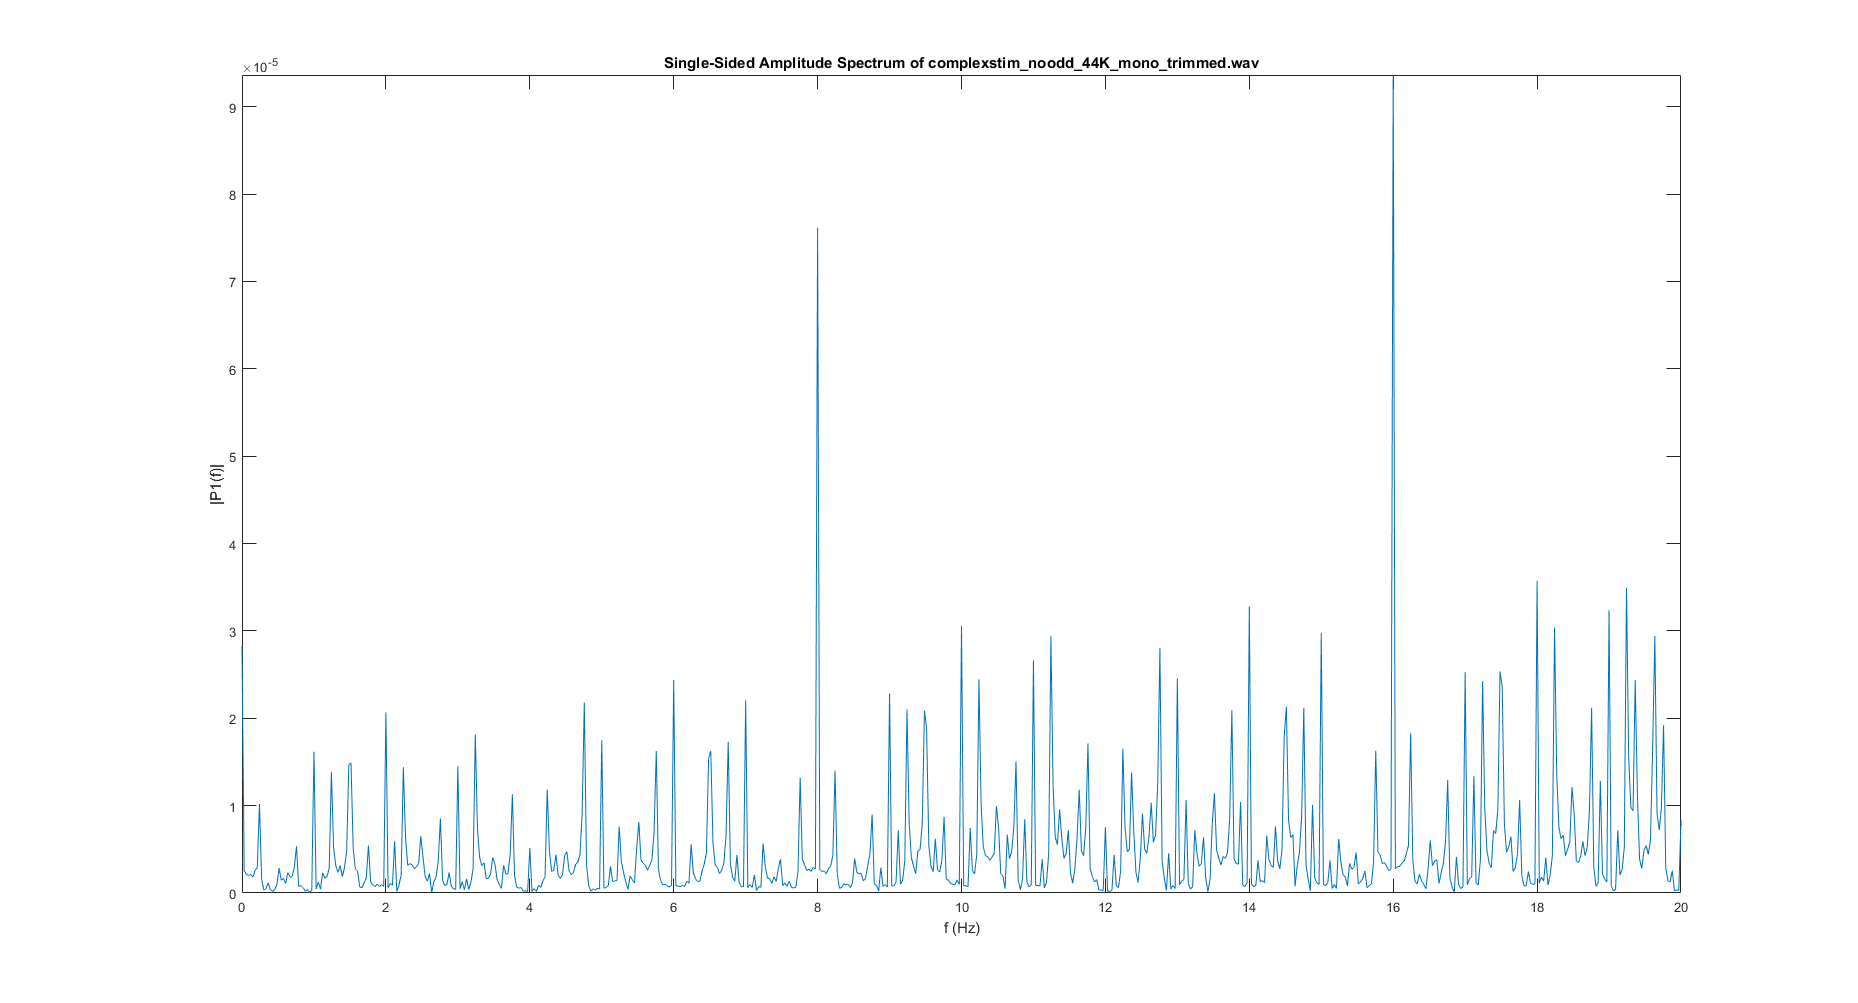
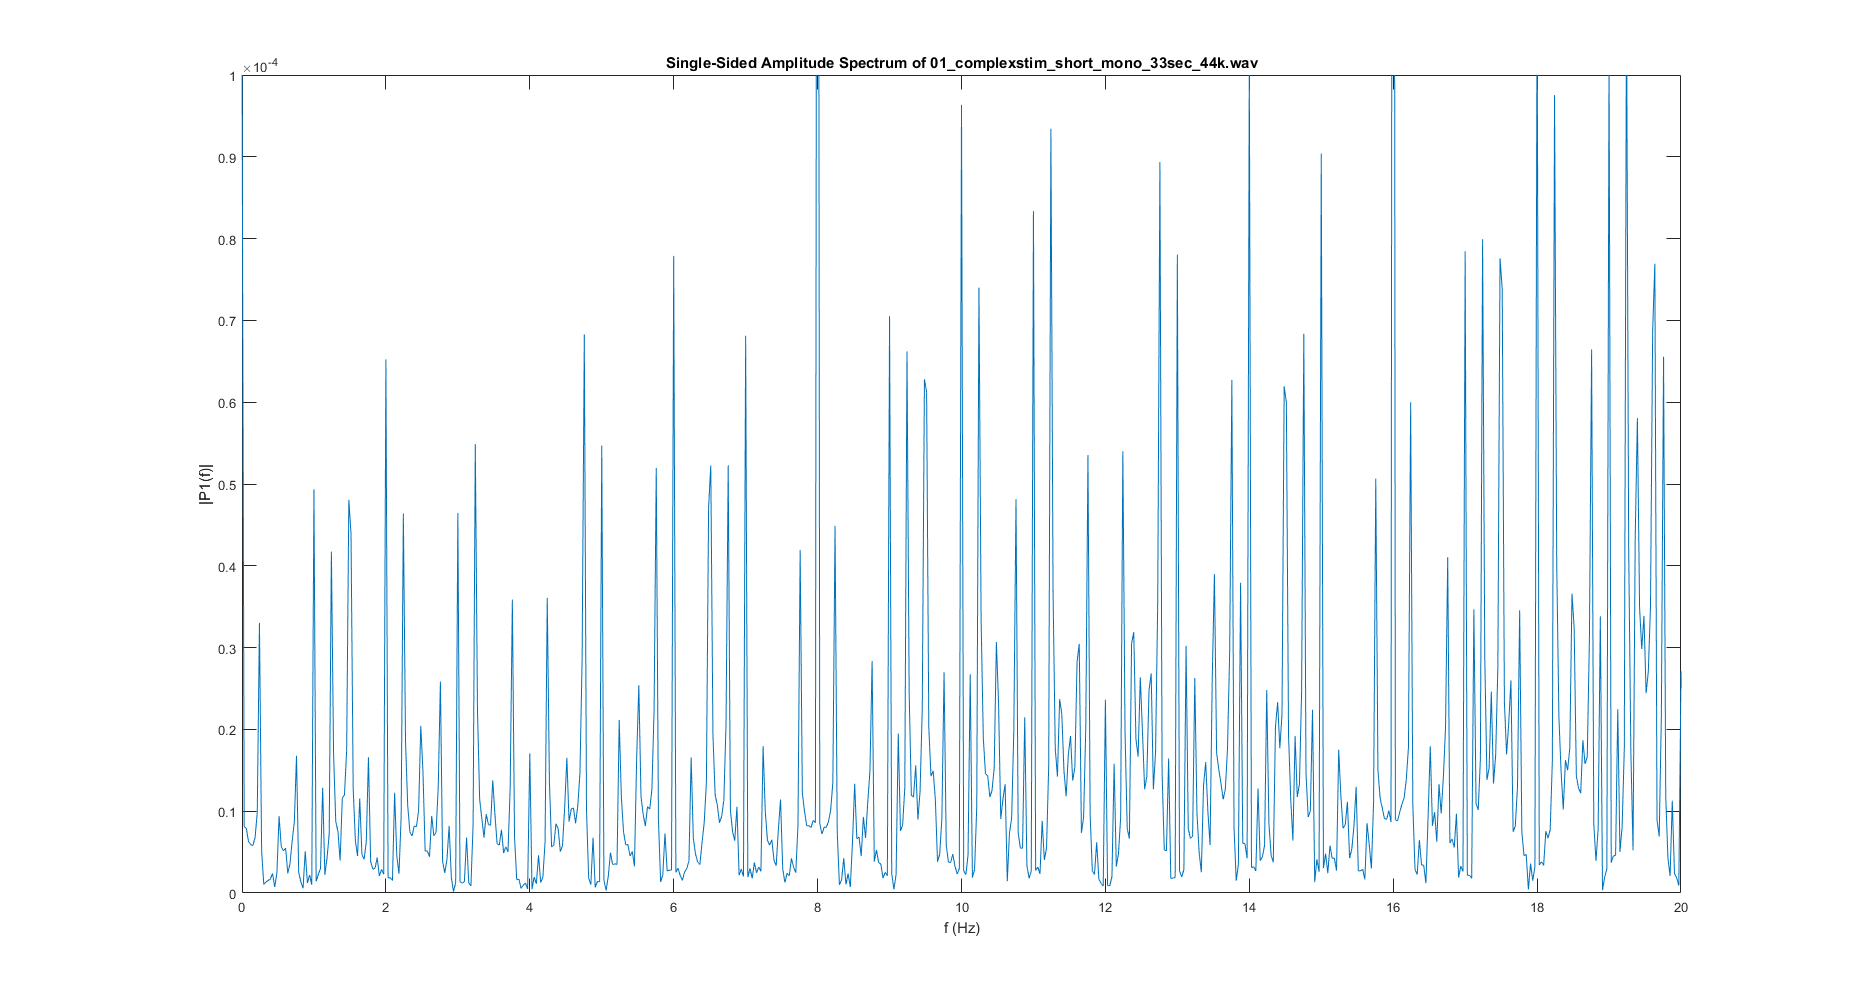
Redid counterbalancing, added better graphics

Changed region(s): [[0.1249, 0.1854, 0.9053, 0.8963], [0.3434, 0.0618, 0.6868, 0.0927], [0.0936, 0.4636, 0.1249, 0.4945]]

diff --git a/scripts/priming_reg_irreg_16blocks_old.m b/scripts/priming_reg_irreg_16blocks_old.m
@@ -53,8 +53,6 @@ p.blocks = 16; % Number of blocks.
 % NOTE: If p.blocks changes from an even number, double-check generate_keys
 % as it will break. I added a test to ensure that p.blocks is an even 
 % number before executing the function. 
-% And now, if this changes from 16 this completely breaks counterbalancing
-% babble across primes!
 
 p.repPrimesPerExp = 2; % Repeated primes over the experiment.
 % NOTE: IF p.repPrimesPerExp changes from 2, double-check 
@@ -119,7 +117,7 @@ end
 
 % key_primes and key_sentences - order of primes and sentences
 [key_primes, key_sent, key_pract] = generate_keys(subj, p);
-sentencecheck(key_sent, key_primes, p)
+sentencecheck(key_sent, p)
 % For the sake of readability I moved all of this code into functions
 % which are specified at the end of this document. 
 % NOTE: Instructions has one practice block which draws from 4 sentences.
@@ -262,7 +260,7 @@ pahandle = PsychPortAudio('Open', [], [], [], fs);
 % online, so I recommend reading RTBox.m and RTBoxdemo.m 
 RTBox('fake', 1);
 RTBox('UntilTimeout', 1);
-RTBox('ButtonNames', {'left', 'right', 'space', '4'});
+RTBox('ButtonNames', {'left', 'right', '3', '4'});
 
 % I convert the speaker image matrix into a texture at this point so the
 % experiment runs faster. 
@@ -681,51 +679,38 @@ key_structures = Shuffle(1:8:p.numStim);
 
 % COUNTERBALANCE NOISE CONDITIONS
 % This ensures an equal number of babble OR/SR conditions across all of the
-% blocks, and also guarantees a counterbalance of babble/clear across each
-% prime across the entire experiment. Note that there are six combinations 
-% of noise/clear sentences, but only 16 blocks. I chose to not use the 
-% condition where all O-sentences are noise and a block or all S-sentneces 
-% are noise. The reason I use 5, 6, 9, and 10 is because I later convert 
-% these into binary vectors!
-
-% The following FOR loop counterbalances stimuli across the "superordinate"
-% categories of primes (i.e. reg/irreg/ambiance/silence). % This strange 
-% Shuffle syntax ensures that the counterbalance matrices are shuffled 
-% across column and across row independently, thus preserving
-% counterbalance. 
-cb_noise = cell(1, 4); 
-for ii = 1:4 
-    cb_noise{ii} = Shuffle(Shuffle([5, 6; 10, 9], 1), 2);
-    % 5  -- OM and SM babble [0 1 0 1]
-    % 6  -- OM and SF babble [0 1 1 0]
-    % 9  -- OF and SM babble [1 0 0 1]
-    % 10 -- OF and SF babble [1 0 1 0]
-end
-
-idx_vec = [1 3 1 3 1 3 1 3];
-% The first two items in each cb_noise matrix are used to determine the
-% "short" prime's noise conditions, and the third and fourth are used in
-% the "long" prime's noise conditions. The bizzare Shuffle syntax earlier
-% ensures that the short and long primes are counterbalanced, and this
-% helps select items 1 and 2, or 3 and 4 from each matrix. 
-
-idx = 1;
+% blocks, and also guarantees a counterbalance of each sentence type across
+% every two blocks. Note that there are six combinations of noise/clear 
+% sentences, but only 16 blocks. Therefore two blocks need to be dropped, 
+% and I chose to drop a block where all O-sentences are noise and a block 
+% where all S-sentneces are noise. The reason I use such strange digits is 
+% because I later convert these into binary vectors!
+pairs = [5, 10; 6, 9];
+key_babble_half = Shuffle([5 5 6 6 9 9 10 10]);
 key_babble_full = nan(1, p.blocks);
-
-for ii = key_primes % for each prime...
-    this_prime = ceil(ii/2); 
-    % Above: is the prime complex (1), ambiance (2), silent (3) , or 
-    % regular (4)? If so, pull from that cell. 
-
-    key_babble_full(idx) = cb_noise{this_prime}(idx_vec(ii)); 
-    % Element idx in the key_noise is thus equal to the correct element
-    % from the corresponding cb_noise matrix!
+idx1 = 1;
+idx2 = 2;
+for ii = key_babble_half
+    for jj = 1:3
+        thispair = pairs(jj, :);
+        if any(ii == thispair)
+            nextblock = thispair(ii ~= thispair);
+            break
+            
+        end
+        
+    end
     
-    % Don't forget to increase your index!
-    idx_vec(ii) = idx_vec(ii) + 1;
-    idx = idx + 1;
+    key_babble_full(idx1) = ii;
+    key_babble_full(idx2) = nextblock;
+    idx1 = idx1 + 2;
+    idx2 = idx2 + 2;
+    
 end
-
+% 5  -- OM and SM babble [0 1 0 1]
+% 6  -- OM and SF babble [0 1 1 0]
+% 9  -- OF and SM babble [1 0 0 1]
+% 10 -- OF and SF babble [1 0 1 0]
 
 % COUNTERBALANCE SENTENCES WITHIN BLOCKS
 % This code ensures that each block of 8 sentences features the same types
@@ -761,7 +746,7 @@ key_pract = Shuffle(horzcat((1:p.stimPerBlock:16) + Shuffle(0:3), (17:p.stimPerB
     
 end
 
-function sentencecheck(key_sent, key_primes, p)
+function sentencecheck(key_sent, p)
 % This function throws an error if there is a problem with the sentences 
 % key. It counts the number of object- and subject-relative, male and 
 % female, clear and babble sentences and makes sure they are all equal. 
@@ -802,14 +787,6 @@ for ii = 1:length(key_sent)
     end
 end
 
-% Sort sentences by prime
-idx = 1;
-each_prime = cell(1, 8);
-for ii = key_primes
-    each_prime{ii} = horzcat(each_prime{ii}, key_sent(idx:idx+3)); 
-    idx = idx + 4;
-end
-
 % TEST - does each category have the same number of sentences?
 if (length(obje) ~= length(subj))
     error('sentencecheck: Number of object and subject-relative stim not equal')    
@@ -821,25 +798,24 @@ end
 
 % Check each block of sentences for balance
 block = 1;
-master_blocks = repmat(0:2:6, [4, 1]) + de2bi([5, 6, 9, 10], 'left-msb');
+master_blocks = repmat(0:2:6, [6, 1]) + de2bi([3, 5, 6, 9, 10, 12], 'left-msb');
 for ii = 1:p.stimPerBlock:length(key_sent)
     temp1 = key_sent(ii:ii+p.stimPerBlock-1) - 1;
-    temp1 = repmat(sort(mod(temp1, 8)), [4, 1]);
+    temp1 = repmat(sort(mod(temp1, 8)), [6, 1]);
+    if mod(ii, 8) == 1 % every two blocks, check this & the following block
+        temp2 = key_sent(ii:ii+2*p.stimPerBlock-1) - 1;
+        temp2 = sort(mod(temp2, 8));
+        if ~isequal(temp2, 0:7)
+            error(['sentencecheck: blocks ' num2str(block) 'and ' num2str(block+1) ' are not counterbalanced'])
+        end
+        
+    end
     
     if ~any(all(temp1 == master_blocks, 2))
         error(['sentencecheck: block ' num2str(block) ' does not have a legal arrangement of sentences'])
     end
     
     block = block + 1;
-end
-
-% Check each prime for counterbalance
-for ii = 1:length(each_prime)
-    thisblock = sort(mod(each_prime{ii}, 8)); 
-    if any(thisblock ~= 0:7)
-        error(['sentencecheck: prime category ' num2str(ii) ' does not have equal number of each sentence'])
-    end
-    
 end
 
 end

diff --git a/scripts/priming_reg_irreg_08blocks.m b/scripts/priming_reg_irreg_08blocks.m
@@ -14,6 +14,7 @@
 % 05/03/18 -- Finished stimuli, code is complete!
 % 06/05/18 -- Changed instructions and tutorials. Started V2 with a
 %   different structure to blocks. 
+% 06/18/18 -- Updated instructions. 
 
 sca; DisableKeysForKbCheck([]); KbQueueStop; clc;
 clearvars;
@@ -320,10 +321,10 @@ if ~NoTutorial
         correct = 0;
         
         % Present practice prime (environmental sounds)
-        DrawFormattedText(wPtr, 'You will now hear ambiance.', 'center', 'center', 255);
+        DrawFormattedText(wPtr, 'You will now hear ambiance.\nPlease stare at the icon\nin the center of the screen.', 'center', 'center', 255);
         Screen('Flip', wPtr);
         
-        primeStartTarget = GetSecs() + 3; % Start trial 5 second from now. 
+        primeStartTarget = GetSecs() + 4; % Start trial 4 seconds from now. 
         % These extra 2 second lets PTB fill the buffer, mark the end of 
         % the stimuli, start the KbQueue
         primeEnd = primeStartTarget + dur_primes(2);

diff --git a/docs/fft_primes.m b/docs/fft_primes.m
@@ -2,8 +2,7 @@ close all
 clearvars
 cd ..
 cd stim
-cd primes_reg_irreg_v2
-cd raw
+cd primes_reg_irreg_16blocks
 
 files = dir('*.wav');
 
